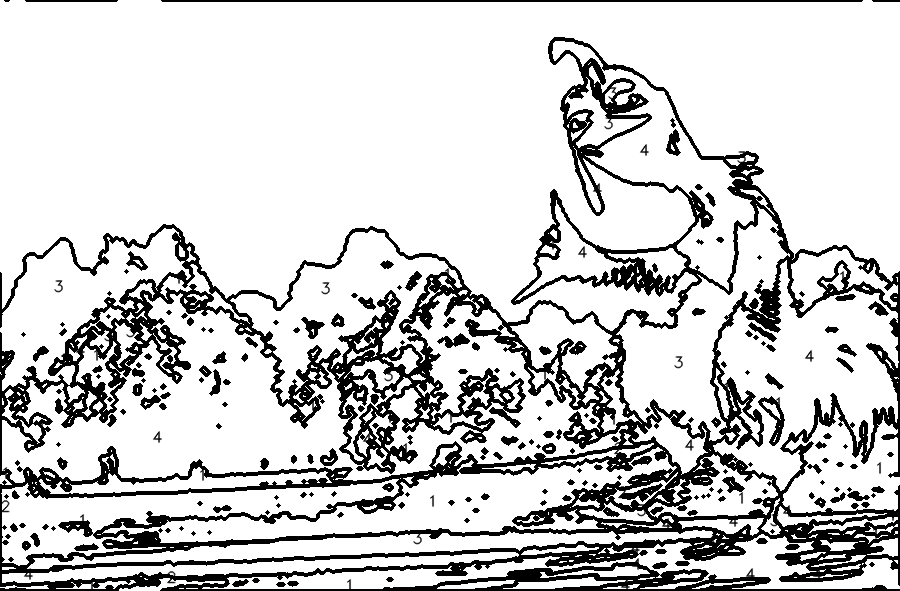
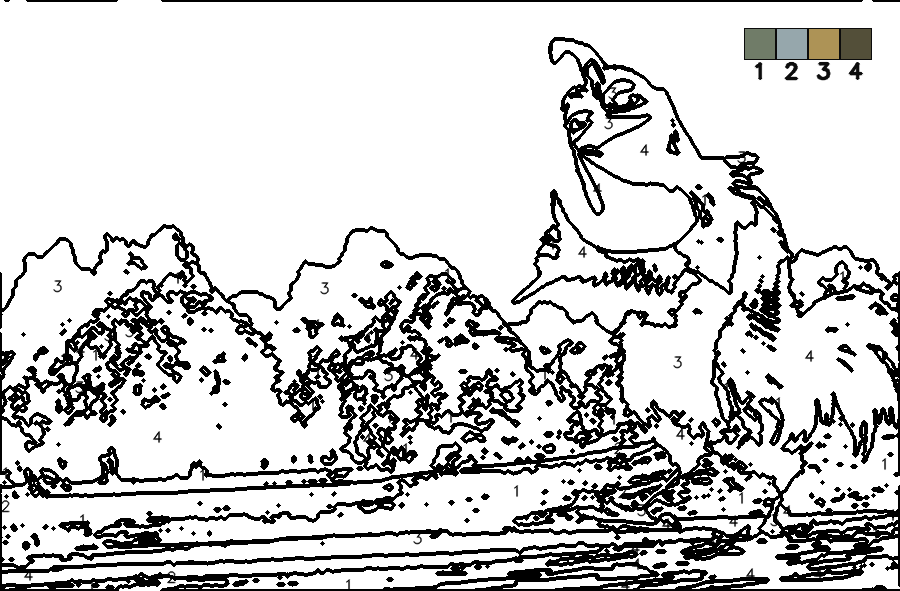
Added legend

diff --git a/backend/services/magic.py b/backend/services/magic.py
@@ -2,7 +2,6 @@
 Minimal pipeline — decode -> resize -> outline -> render worksheet.
 
 This generates a basic "coloriage": white page with black outline of the photo.
-Later steps will add quantization, labels, numbers and legend.
 """
 
 from __future__ import annotations
@@ -13,7 +12,7 @@ import numpy as np
 
 from backend.ops.io import decode_image_bytes, pil_to_numpy_bgr, downscale_max_side, encode_png_base64
 from backend.ops.outline import outline_edges
-from backend.ops.render import compose_worksheet, draw_numbers, labels_viz
+from backend.ops.render import compose_worksheet, draw_numbers, labels_viz, legend_viz, overlay_legend_on_worksheet
 from backend.api.schemas import ConvertRequestOptions, ConvertResponse, ImageMeta
 from backend.ops.quantize import quantize_bgr_kmeans
 from backend.ops.segments import extract_regions, median_smooth_labels, merge_micro_regions, outline_from_labels
@@ -30,7 +29,7 @@ def convert_image_bytes_to_worksheet(data: bytes, opts: ConvertRequestOptions) -
 
 	#3) color quantization (preview)
 	q_bgr, labels, palette = quantize_bgr_kmeans(img, max(2, min(24, opts.colors)))
-	# 3b) label smoothing + merge of micro-regions
+	#3b) label smoothing + merge of micro-regions
 	labels = median_smooth_labels(labels, ksize=3)
 	labels = merge_micro_regions(labels, min_area=opts.merge_area)
 
@@ -51,15 +50,21 @@ def convert_image_bytes_to_worksheet(data: bytes, opts: ConvertRequestOptions) -
 	places = place_numbers(regions)
 	worksheet = draw_numbers(worksheet, places)
 
-	#7)pack response (with preview and optional labels viz)
-	worksheet_png = encode_png_base64(worksheet)
+	#7)legend image and overlay
+	legend_img = legend_viz(palette, box_size=32)
+	worksheet_with_legend = overlay_legend_on_worksheet(worksheet, legend_img, margin=12, alpha=0.95)
+
+	#8)pack response (with preview and optional labels viz)
+	worksheet_png = encode_png_base64(worksheet_with_legend)
 	preview_png = encode_png_base64(q_bgr) if opts.include_preview else None
 	labels_img = labels_viz(labels, palette)
 	labels_png = encode_png_base64(labels_img) if opts.include_preview else None
+	legend_png = encode_png_base64(legend_img)
 	meta = ImageMeta(width=w, height=h, colors=int(palette.shape[0]), num_regions=len(regions))
 	return ConvertResponse(
 		worksheet_png=worksheet_png,
 		preview_png=preview_png,
 		labels_png=labels_png,
+		legend_png=legend_png,
 		meta=meta,
 	)

diff --git a/backend/ops/render.py b/backend/ops/render.py
@@ -54,3 +54,47 @@ def labels_viz(label_map: np.ndarray, palette_bgr: np.ndarray | None = None) -> 
 		pal_len = pal.shape[0]
 		indexed = np.clip(label_map, 0, pal_len - 1)
 		return pal[indexed]
+
+
+def legend_viz(palette_bgr: np.ndarray, box_size: int = 40, font_scale: float = 0.7, thickness: int = 2) -> np.ndarray:
+	import cv2
+	K = palette_bgr.shape[0]
+	margin = 16
+	width = box_size * K + margin * 2
+	height = box_size + 40
+	canvas = np.full((height, width, 3), 255, dtype=np.uint8)
+	for i in range(K):
+		color = tuple(int(x) for x in palette_bgr[i])
+		x = margin + i * box_size
+		y = margin
+		cv2.rectangle(canvas, (x, y), (x + box_size - 1, y + box_size - 1), color, -1)
+		cv2.rectangle(canvas, (x, y), (x + box_size - 1, y + box_size - 1), (0, 0, 0), 1)
+		text = str(i + 1)
+		(text_w, text_h), baseline = cv2.getTextSize(text, cv2.FONT_HERSHEY_SIMPLEX, font_scale, thickness)
+		text_x = x + (box_size - text_w) // 2
+		text_y = y + box_size + text_h + 2
+		cv2.putText(canvas, text, (text_x, text_y), cv2.FONT_HERSHEY_SIMPLEX, font_scale, (0, 0, 0), thickness, cv2.LINE_AA)
+	title = ""
+	(text_w, text_h), baseline = cv2.getTextSize(title, cv2.FONT_HERSHEY_SIMPLEX, 0.8, 2)
+	title_x = (width - text_w) // 2
+	title_y = margin - 4 + text_h
+	cv2.putText(canvas, title, (title_x, title_y), cv2.FONT_HERSHEY_SIMPLEX, 0.8, (0, 0, 0), 2, cv2.LINE_AA)
+	return canvas
+
+
+def overlay_legend_on_worksheet(worksheet: np.ndarray, legend: np.ndarray, margin: int = 12, alpha: float = 0.95) -> np.ndarray:
+	h, w = worksheet.shape[:2]
+	lh, lw = legend.shape[:2]
+	max_lw = min(w // 2, lw)
+	max_lh = min(h // 4, lh)
+	if lw > max_lw or lh > max_lh:
+		import cv2
+		legend = cv2.resize(legend, (max_lw, max_lh), interpolation=cv2.INTER_AREA)
+		lh, lw = legend.shape[:2]
+	x0 = w - lw - margin
+	y0 = margin
+	roi = worksheet[y0:y0+lh, x0:x0+lw]
+	blended = (roi * (1 - alpha) + legend * alpha).astype(np.uint8)
+	worksheet_out = worksheet.copy()
+	worksheet_out[y0:y0+lh, x0:x0+lw] = blended
+	return worksheet_out

diff --git a/backend/api/schemas.py b/backend/api/schemas.py
@@ -50,9 +50,10 @@ class ConvertResponse(BaseModel):
 	Images are base64-encoded PNGs, so the frontend can easily render or download them.
 	"""
 
-	worksheet_png: str = Field(..., description="Base64-encoded PNG of the worksheet (numbers + outline).")
+	worksheet_png: str = Field(..., description="Base64-encoded PNG of the worksheet (numbers + outline + legend).")
 	preview_png: Optional[str] = Field(None, description="Base64-encoded PNG of the quantized preview (optional).")
 	labels_png: Optional[str] = Field(None, description="Base64-encoded PNG of the label map (optional/debug).")
+	legend_png: Optional[str] = Field(None, description="Base64-encoded PNG of the color legend (numbers and colors).")
 	meta: ImageMeta
 
 
